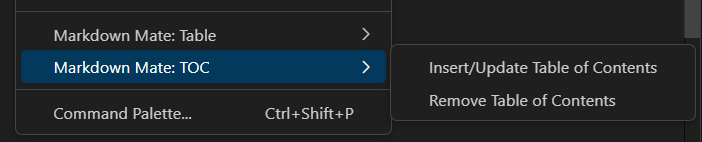
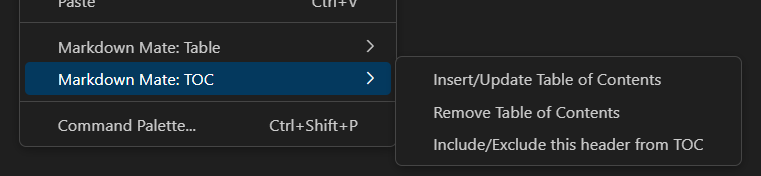
Added toc ignore command

diff --git a/src/lib/MarkdownEditor.ts b/src/lib/MarkdownEditor.ts
@@ -1,11 +1,14 @@
 import {
+  DocumentSymbol,
   Position,
   Range,
   Selection,
   TextEditor,
   TextEditorEdit,
+  commands,
   window,
 } from "vscode";
+import Constants from "./Constants";
 
 export default class MarkdownEditor {
   editor: TextEditor;
@@ -210,6 +213,26 @@ export default class MarkdownEditor {
       this.removeSymbol(symbol, positions);
     } else {
       this.addSymbol(symbol, positions);
+    }
+  }
+
+  async toggleTocHeaderIgnore() {
+    const range = this.getSelectedRange();
+    const line = range.start.line;
+    const text = this.editor.document.lineAt(line).text;
+
+    if (!Constants.REG_HEADER.test(text)) {
+      return;
+    }
+
+    if (text.endsWith(Constants.TOC_HEADER_IGNORE)) {
+      this.removeSymbol(Constants.TOC_HEADER_IGNORE, [
+        new Position(line, text.length - Constants.TOC_HEADER_IGNORE.length),
+      ]);
+    } else {
+      this.addSymbol(Constants.TOC_HEADER_IGNORE, [
+        new Position(line, text.length),
+      ]);
     }
   }
 }

diff --git a/src/lib/table/index.ts b/src/lib/table/index.ts
@@ -129,10 +129,9 @@ export default class Table {
     const headerLine = [];
     const headerSeparatorLine = [];
     for (let col = 0; col < this.columns.length; col++) {
-      headerLine.push(
-        this.columns[col].header.formattedContent(this.columns[col].width)
-      );
-      headerSeparatorLine.push(this.columns[col].getHeaderSeparator());
+      const currCol = this.columns[col];
+      headerLine.push(currCol.formatCellContent(currCol.header));
+      headerSeparatorLine.push(currCol.getHeaderSeparator());
     }
 
     tableLines.push(headerLine.join("|"));
@@ -142,7 +141,7 @@ export default class Table {
       const currLine = [];
       for (let col = 0; col < this.columns.length; col++) {
         const currCol = this.columns[col];
-        currLine.push(currCol.cells[cellIdx].formattedContent(currCol.width));
+        currLine.push(currCol.formatCellContent(currCol.cells[cellIdx]));
       }
       tableLines.push(currLine.join("|"));
     }

diff --git a/src/lib/table/Column.ts b/src/lib/table/Column.ts
@@ -69,4 +69,17 @@ export default class Column {
       return ` -${separator}- `;
     }
   }
+
+  formatCellContent(cell: Cell): string {
+    const text = ` ${cell.content} `;
+    if (this.alignment === TableColumnAlignment.LEFT) {
+      return text.padEnd(this.width);
+    } else if (this.alignment === TableColumnAlignment.RIGHT) {
+      return text.padStart(this.width);
+    } else {
+      return text
+        .padStart(Math.floor((this.width - text.length) / 2) + text.length)
+        .padEnd(this.width);
+    }
+  }
 }

diff --git a/src/lib/table/Cell.ts b/src/lib/table/Cell.ts
@@ -1,13 +1,9 @@
 export default class Cell {
-  private _content: string;
+  content: string;
   width: number;
 
   constructor(content: string = "") {
-    this._content = content.trim();
-    this.width = this._content.length + 2;
-  }
-
-  formattedContent(width: number) {
-    return ` ${this._content} `.padEnd(width);
+    this.content = content.trim();
+    this.width = this.content.length + 2;
   }
 }

diff --git a/src/extension.ts b/src/extension.ts
@@ -12,6 +12,13 @@ export function activate(context: ExtensionContext) {
     markdownMate.removeToc();
   });
 
+  const toggleTocHeaderIgnore = commands.registerCommand(
+    "markdown-mate.toc.toggle.header-ignore",
+    () => {
+      markdownMate.toggleTocHeaderIgnore();
+    }
+  );
+
   const toggleBold = commands.registerCommand(
     "markdown-mate.format.toggle.bold",
     () => {

diff --git a/src/MarkdownMate.ts b/src/MarkdownMate.ts
@@ -13,6 +13,11 @@ export default class MarkdownMate {
     await toc.removeTocFromDoc();
   }
 
+  public async toggleTocHeaderIgnore() {
+    const markdownEditor = new MarkdownEditor();
+    markdownEditor.toggleTocHeaderIgnore();
+  }
+
   public toggleBold() {
     const markdownEditor = new MarkdownEditor();
     markdownEditor.toggleBold();

diff --git a/src/lib/Constants.ts b/src/lib/Constants.ts
@@ -11,6 +11,7 @@ export default abstract class Constants {
 
   static readonly TOC_START = "<!-- TOC -->";
   static readonly TOC_END = "<!-- /TOC -->";
+  static readonly TOC_HEADER_IGNORE = "<!-- TOC ignore -->";
   static readonly EOL = "\n";
   static readonly LIST_SYMBOL = "-";
   static readonly TAB = "  ";

diff --git a/README.md b/README.md
@@ -7,7 +7,7 @@ With Markdown Mate, you can:
 - Insert and modify tables
 - Format text
 
-## Table of Contents <!-- TOC ignore -->
+## Table of Contents<!-- TOC ignore -->
 
 <!-- TOC -->
 
@@ -54,6 +54,7 @@ This submenu contains commands for TOC related operations:
 
 - Insert/Update Table of Contents
 - Remove Table of Contents
+- Include/Exclude this header from TOC
 
 ![Context menu for Markdown Mate: TOC](./images/context_menu_toc.png)
 
@@ -71,6 +72,7 @@ You may use all the commands from Command Palette too. Open VS Code command pale
 
 - Insert/Update Table of Contents
 - Remove Table of Contents
+- Include/Exclude this header from TOC
 - Insert a Table
 - Format this Table
 - Insert new row before
@@ -83,8 +85,6 @@ You may use all the commands from Command Palette too. Open VS Code command pale
 
 ## Future plans
 
-- Add feature to change text to uppercase
-- Add feature to change text to lowercase
-- Format cell text based on alignment
 - Fix issues
+- Show warnings
 - Optimize

diff --git a/CHANGELOG.md b/CHANGELOG.md
@@ -13,6 +13,7 @@ and this project adheres to [Semantic Versioning](https://semver.org/spec/v2.0.0
 
 ### Added
 
+- Command and Context menu to include/exclude an header from TOC
 - TOC commands are now accessible through context menu
 
 ## [0.0.3] - 2024-02-04
